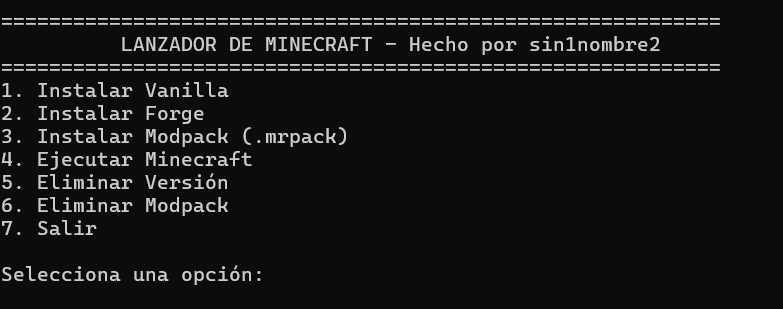
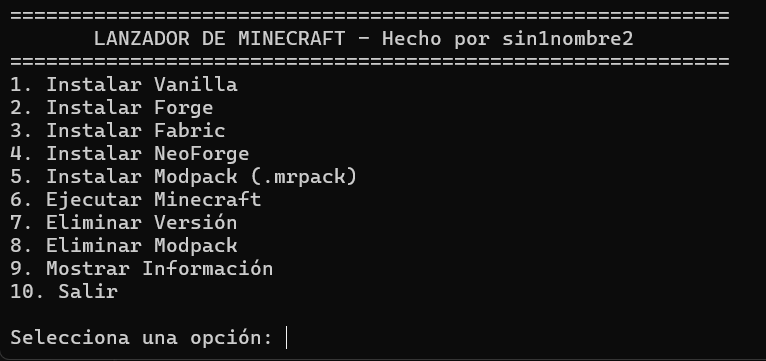
Versión 3.0.0

Changed region(s): [[0.0, 0.0291, 0.9608, 0.9612], [0.0, 0.9903, 1.0, 1.0]]

diff --git a/launcher_sin_interfaz.py b/launcher_sin_interfaz.py
@@ -435,6 +435,8 @@ if __name__ == "__main__":
     ║          ✅ Aislamiento de instancias                    ║
     ║          ✅ Gestión completa de versiones                ║
     ║          ✅ Soporte para NeoForge                        ║
+    ║          ✅ Soporte para Fabric                          ║ 
+    ║          ✅ Soporte para Forge                           ║     
     ╚══════════════════════════════════════════════════════════╝
     """)
     main()
